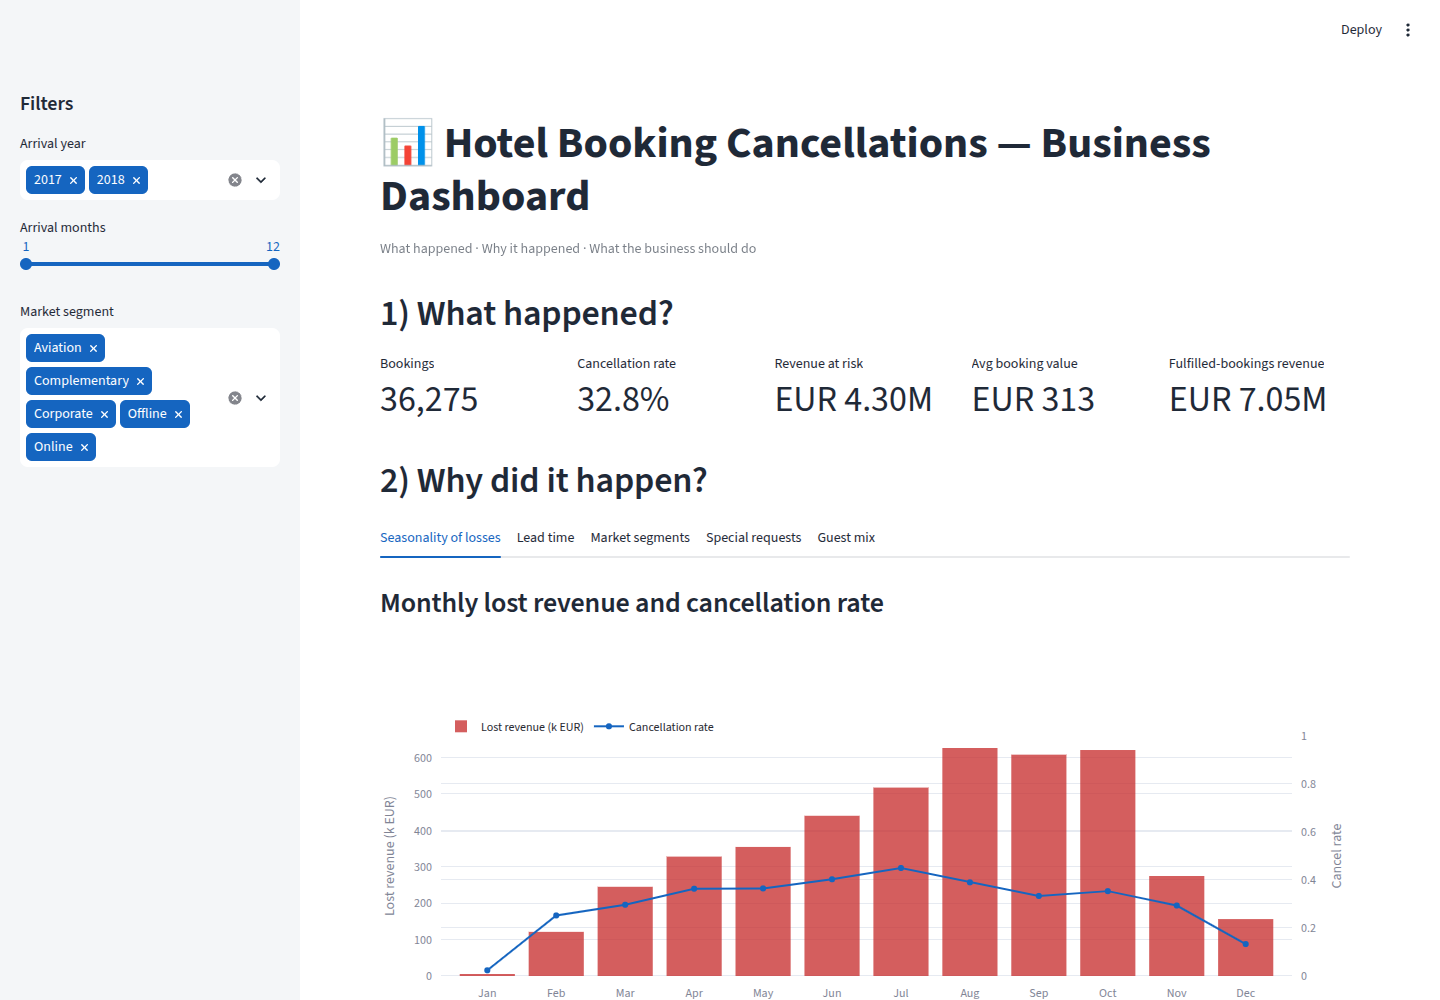
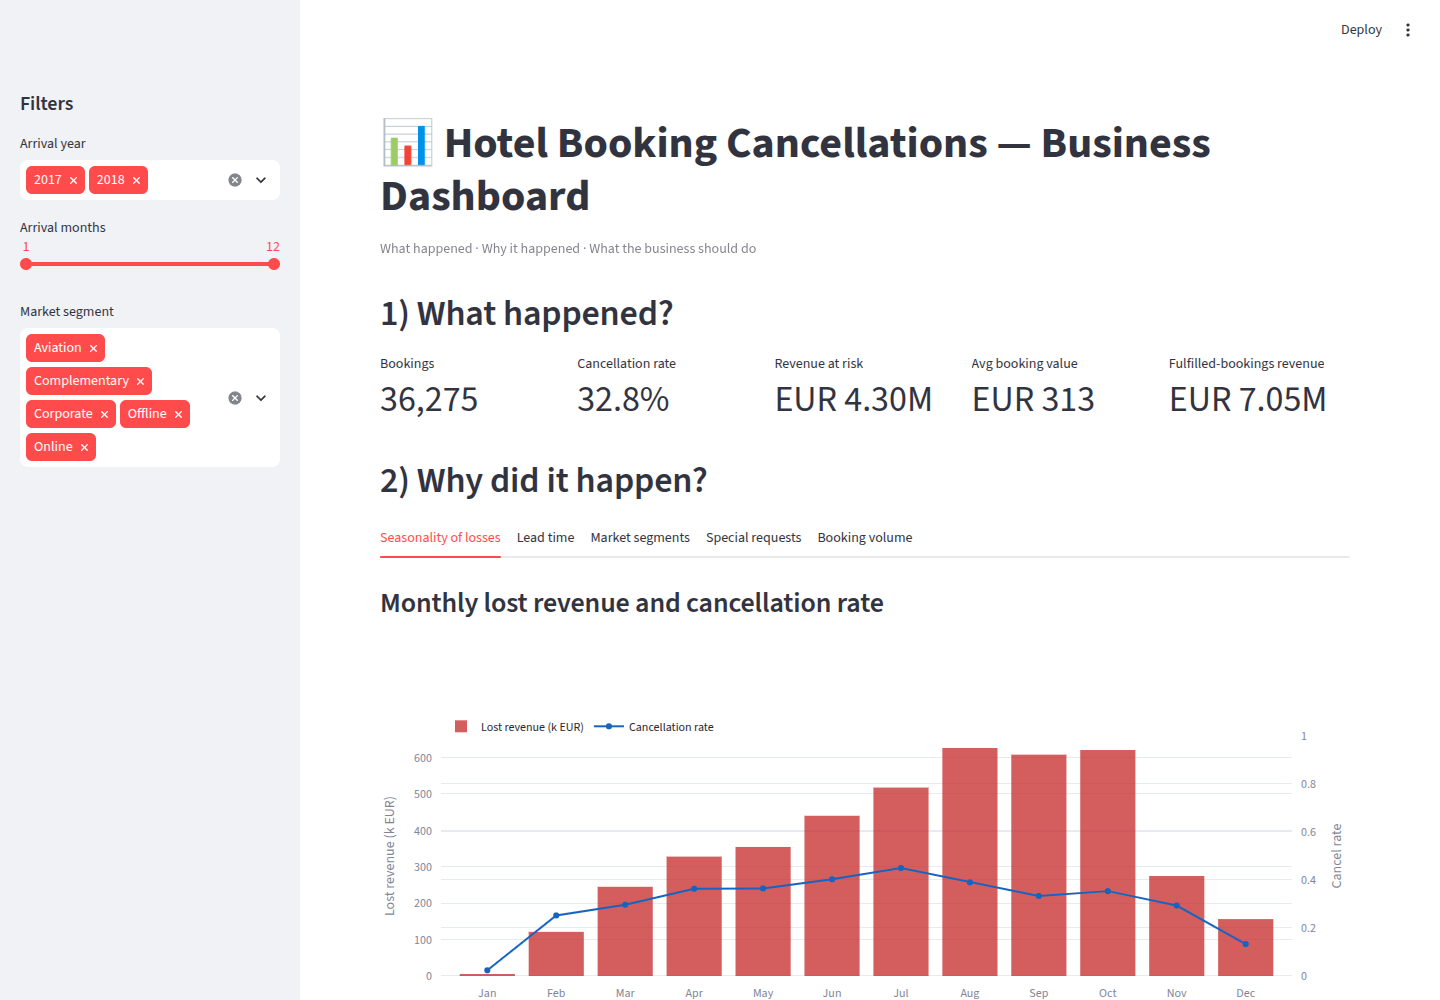
Fix dashboard crash and chart alignment
- px.bar called custom_data as a bare Series without data_frame, which plotly 7
  rejects -> ValueError killed every tab below 'Lead time' and the whole
  recommendations section; charts now pass a proper data_frame with named
  custom_data columns
- Monthly charts reindex to the selected month range so the x axis stays
  aligned when filters leave months without bookings
- Rename 'Guest mix' tab to 'Booking volume' (matches what it plots)
- Replace deprecated use_container_width with width='stretch'
- Verified in Docker: all 5 tabs render with default and partial filters,
  KPIs recompute, no exceptions in container logs

diff --git a/apps/dashboard/app.py b/apps/dashboard/app.py
@@ -71,39 +71,45 @@ tab_overview, tab_lead, tab_segment, tab_season, tab_engagement = st.tabs(
         "Lead time",
         "Market segments",
         "Special requests",
-        "Guest mix",
+        "Booking volume",
     ]
 )
+
+month_names = [
+    "Jan",
+    "Feb",
+    "Mar",
+    "Apr",
+    "May",
+    "Jun",
+    "Jul",
+    "Aug",
+    "Sep",
+    "Oct",
+    "Nov",
+    "Dec",
+]
+# Months visible in the charts always match the slider range, even if a month
+# has no bookings under the current segment/year filters.
+selected_months = list(range(month_filter[0], month_filter[1] + 1))
+selected_month_names = [month_names[m - 1] for m in selected_months]
 
 with tab_overview:
     st.subheader("Monthly lost revenue and cancellation rate")
     monthly = fdf.groupby("arrival_month").agg(
         rate=("cancel", "mean"), lost=("lost_revenue", "sum")
     )
-    month_names = [
-        "Jan",
-        "Feb",
-        "Mar",
-        "Apr",
-        "May",
-        "Jun",
-        "Jul",
-        "Aug",
-        "Sep",
-        "Oct",
-        "Nov",
-        "Dec",
-    ]
+    monthly = monthly.reindex(selected_months)
     fig = go.Figure()
     fig.add_bar(
-        x=month_names,
+        x=selected_month_names,
         y=monthly["lost"] / 1e3,
         name="Lost revenue (k EUR)",
         marker_color=RED,
         opacity=0.75,
     )
     fig.add_scatter(
-        x=month_names,
+        x=selected_month_names,
         y=monthly["rate"],
         name="Cancellation rate",
         mode="lines+markers",
@@ -121,7 +127,7 @@ with tab_overview:
         height=420,
         legend={"orientation": "h", "y": 1.1},
     )
-    st.plotly_chart(fig, use_container_width=True)
+    st.plotly_chart(fig, width="stretch")
     st.markdown("**Interpretation:** losses concentrate in peak months (Q04).")
 
 with tab_lead:
@@ -133,20 +139,21 @@ with tab_lead:
         fdf2["lead_time"], bins=bins, labels=labels, include_lowest=True
     )
     by_lead = fdf2.groupby("band", observed=True)["cancel"].agg(["mean", "size"])
+    bl = by_lead.reset_index()
     fig = px.bar(
-        x=by_lead.index.astype(str),
-        y=by_lead["mean"],
+        bl,
+        x="band",
+        y="mean",
+        custom_data=["size"],
         color_discrete_sequence=[BLUE],
-        custom_data=by_lead["size"],
+        labels={"band": "Lead-time band", "mean": "Cancellation rate"},
     )
     fig.update_traces(hovertemplate="%{y:.1%} cancel rate (%{customdata} bookings)")
     fig.update_layout(
-        xaxis_title="Lead-time band",
-        yaxis_title="Cancellation rate",
         yaxis_range=[0, 1],
         height=420,
     )
-    st.plotly_chart(fig, use_container_width=True)
+    st.plotly_chart(fig, width="stretch")
     st.markdown(
         "**Interpretation:** long-lead bookings cancel far more — plans made months "
         "ahead are fragile (Q02)."
@@ -159,20 +166,21 @@ with tab_segment:
         .agg(["mean", "size"])
         .sort_values("mean", ascending=False)
     )
+    bs = by_seg.reset_index()
     fig = px.bar(
-        x=by_seg.index,
-        y=by_seg["mean"],
+        bs,
+        x="market_segment_type",
+        y="mean",
+        custom_data=["size"],
         color_discrete_sequence=[ORANGE],
-        custom_data=by_seg["size"],
+        labels={"market_segment_type": "Market segment", "mean": "Cancellation rate"},
     )
     fig.update_traces(hovertemplate="%{y:.1%} cancel rate (%{customdata} bookings)")
     fig.update_layout(
-        xaxis_title="Market segment",
-        yaxis_title="Cancellation rate",
         yaxis_range=[0, 1],
         height=420,
     )
-    st.plotly_chart(fig, use_container_width=True)
+    st.plotly_chart(fig, width="stretch")
     st.markdown(
         "**Interpretation:** Online dominates volume and risk; Corporate is the safest "
         "paying segment (Q03)."
@@ -181,15 +189,23 @@ with tab_segment:
 with tab_engagement:
     st.subheader("Engagement is protective")
     by_req = fdf.groupby("no_of_special_requests")["cancel"].mean()
-    fig = px.bar(x=by_req.index.astype(str), y=by_req, color_discrete_sequence=[PURPLE])
+    br = by_req.reset_index()
+    fig = px.bar(
+        br,
+        x="no_of_special_requests",
+        y="cancel",
+        color_discrete_sequence=[PURPLE],
+        labels={
+            "no_of_special_requests": "Special requests",
+            "cancel": "Cancellation rate",
+        },
+    )
     fig.update_traces(hovertemplate="%{y:.1%} cancel rate")
     fig.update_layout(
-        xaxis_title="Special requests",
-        yaxis_title="Cancellation rate",
         yaxis_range=[0, 1],
         height=420,
     )
-    st.plotly_chart(fig, use_container_width=True)
+    st.plotly_chart(fig, width="stretch")
     st.markdown(
         "**Interpretation:** every special request lowers risk; zero-request, first-time, "
         "long-lead bookings are the archetypal risk profile (Q05)."
@@ -198,19 +214,21 @@ with tab_engagement:
 with tab_season:
     st.subheader("Seasonality of booking volume")
     by_month = fdf.groupby("arrival_month")["cancel"].agg(["mean", "size"])
+    bm = by_month.reindex(selected_months).fillna({"mean": 0, "size": 0})
+    bm["month"] = [month_names[m - 1] for m in bm.index]
     fig = px.bar(
-        x=month_names,
-        y=by_month["size"],
+        bm,
+        x="month",
+        y="size",
+        custom_data=["mean"],
         color_discrete_sequence=[BLUE],
-        custom_data=by_month["mean"],
+        labels={"month": "Arrival month", "size": "Bookings"},
     )
     fig.update_traces(hovertemplate="%{y:,} bookings · %{customdata:.1%} cancel rate")
     fig.update_layout(
-        xaxis_title="Arrival month",
-        yaxis_title="Bookings",
         height=420,
     )
-    st.plotly_chart(fig, use_container_width=True)
+    st.plotly_chart(fig, width="stretch")
     st.markdown(
         "**Interpretation:** demand peaks Aug–Oct, exactly where losses concentrate (Q04/Q05)."
     )
@@ -242,7 +260,7 @@ actions = pd.DataFrame(
     ],
     columns=["Signal observed", "Recommended action"],
 )
-st.dataframe(actions, use_container_width=True, hide_index=True)
+st.dataframe(actions, width="stretch", hide_index=True)
 
 st.caption(
     "Source: business analysis (docs/business_analysis_report.md). "
